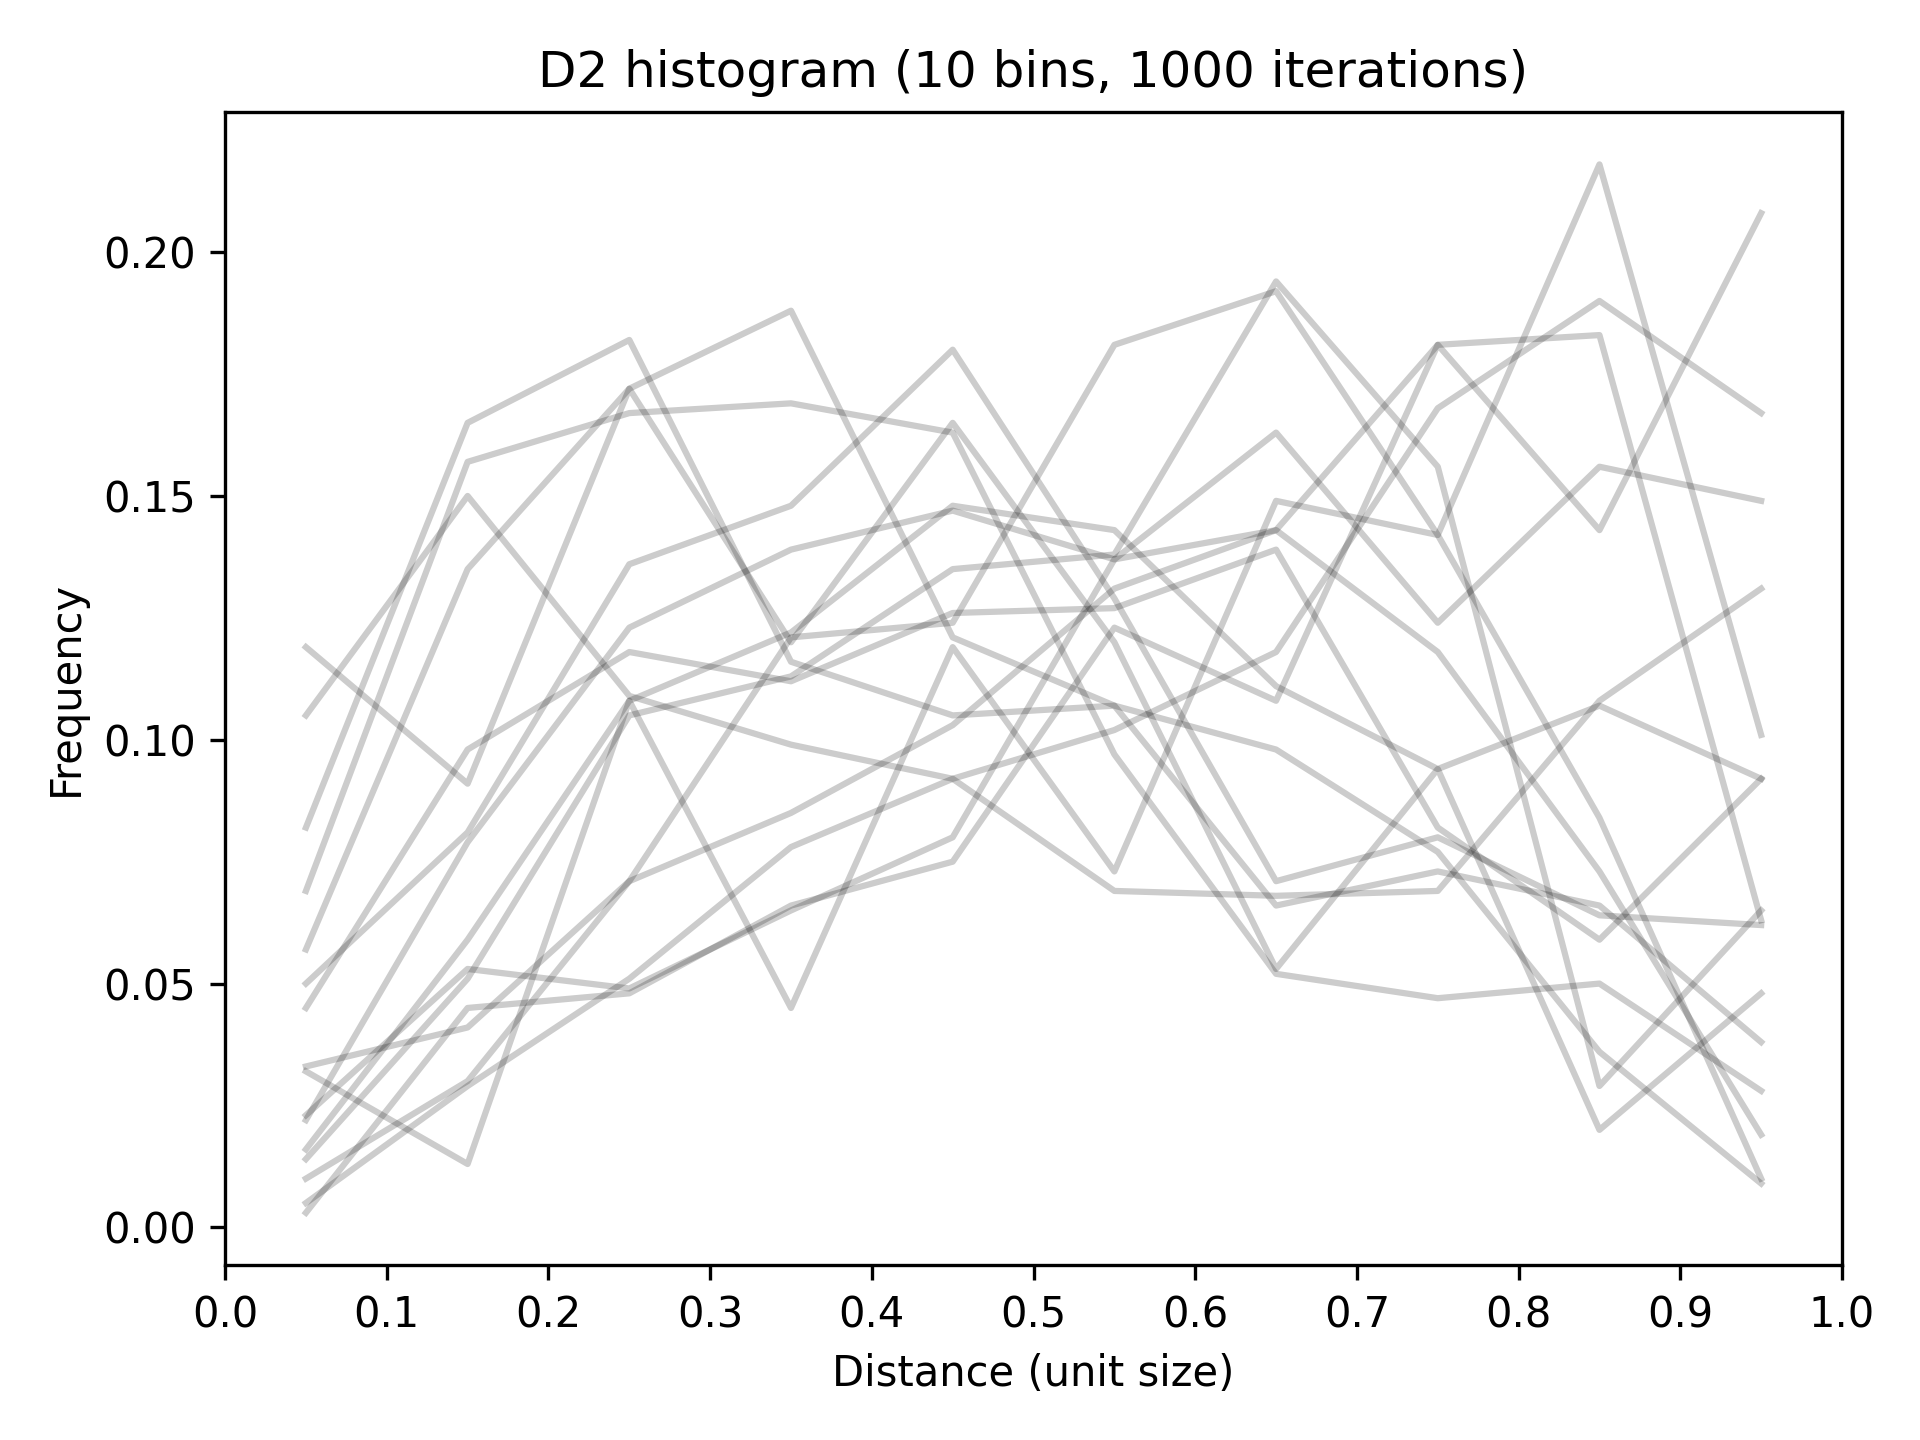
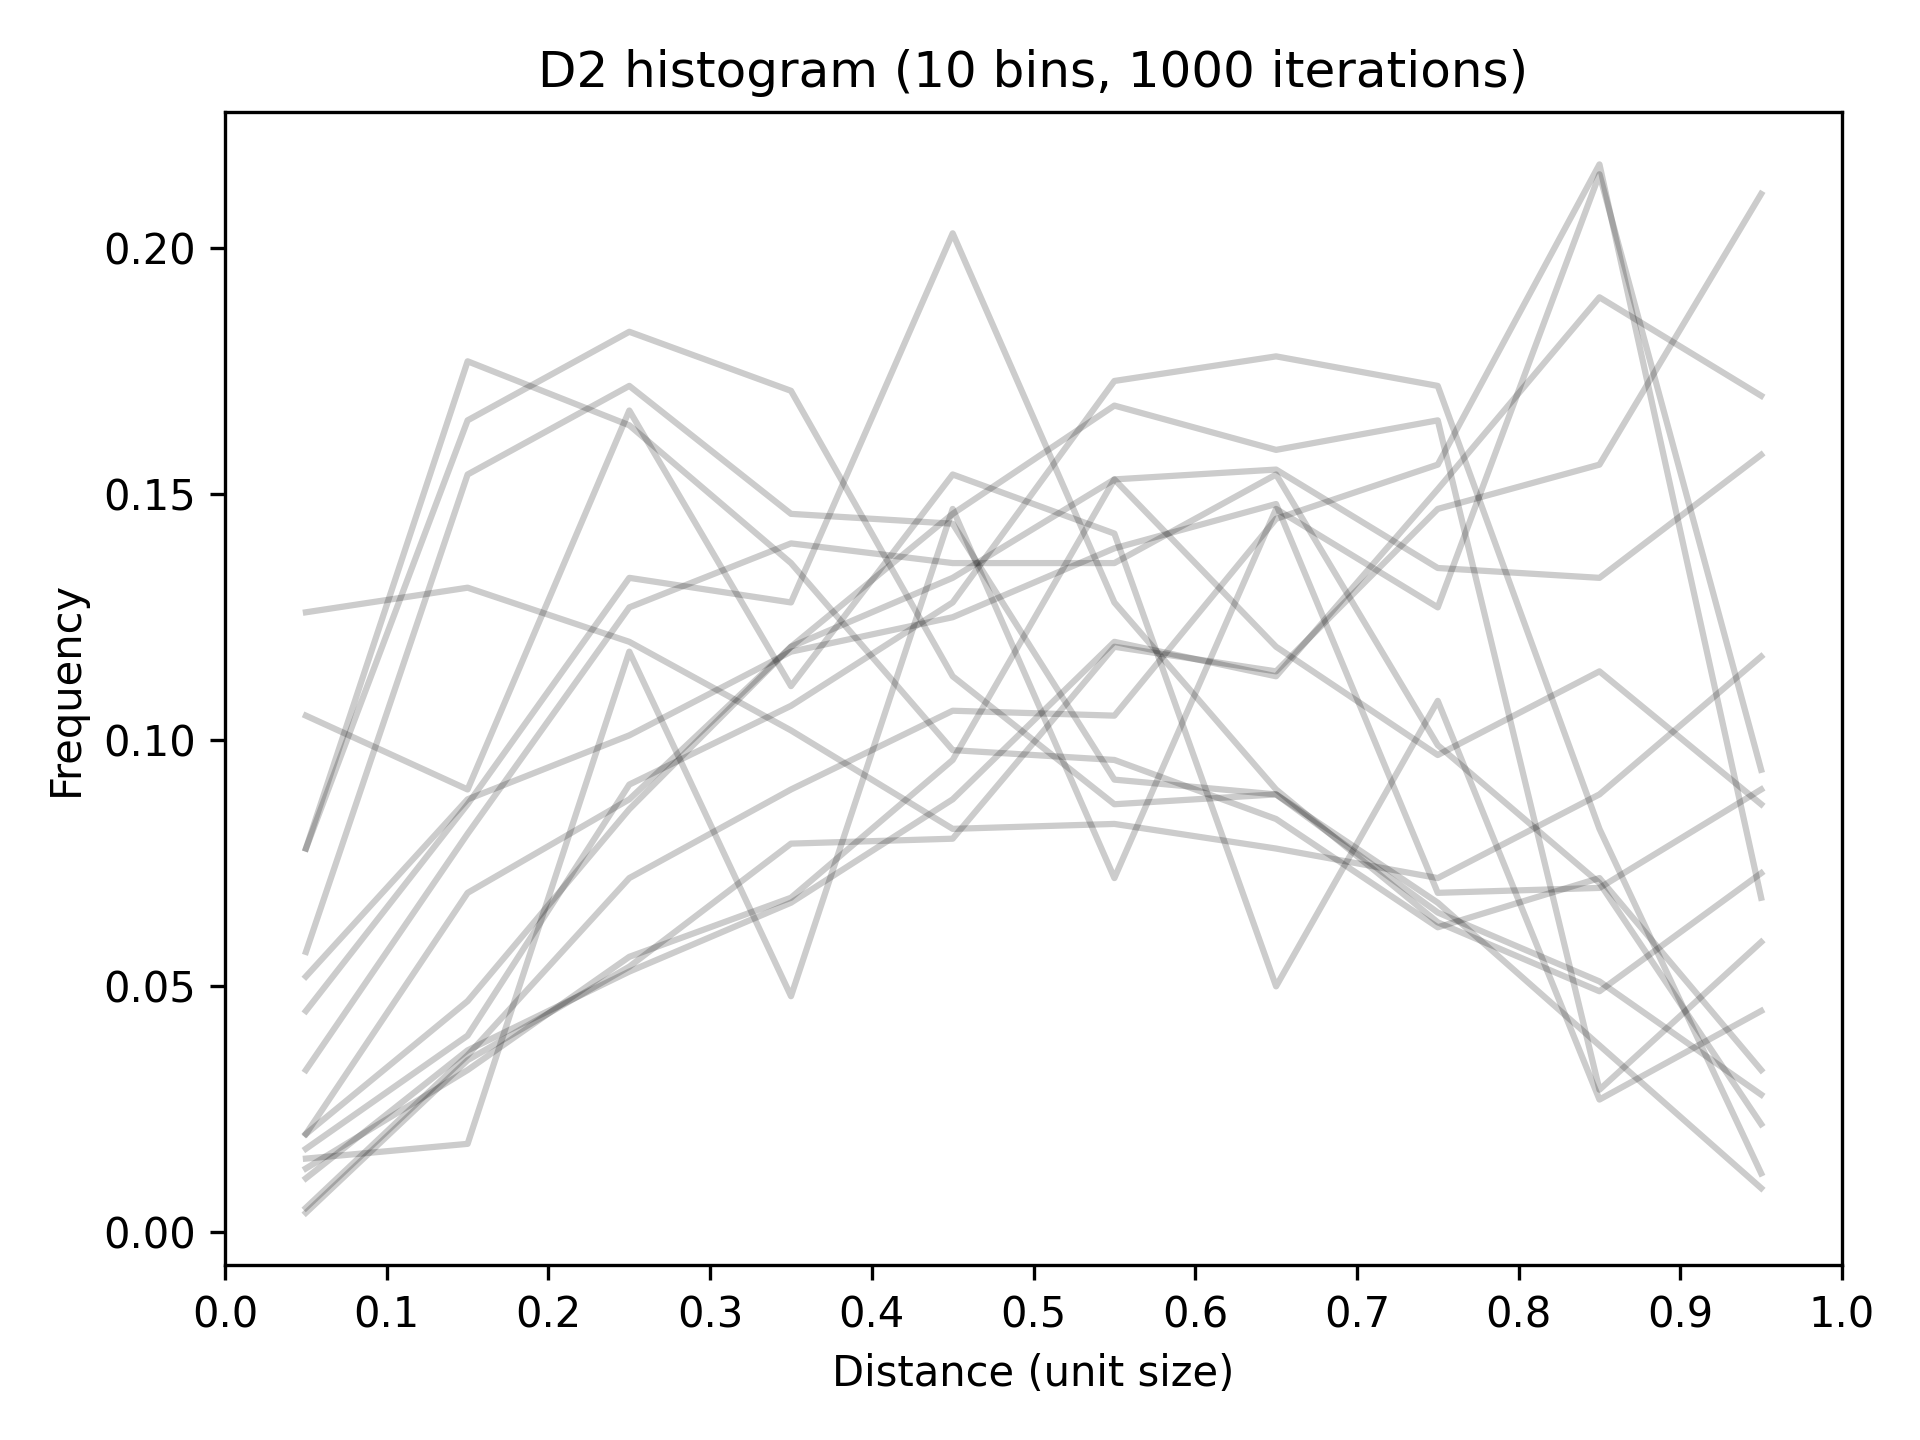
Added alternative to D2

diff --git a/code/feature_extraction.py b/code/feature_extraction.py
@@ -1,3 +1,4 @@
+import itertools
 import os
 
 import numpy as np
@@ -50,17 +51,30 @@ def compute_d1_hist(vertices: np.ndarray, barycenter: np.ndarray, n_iter: int = 
     return hist
 
 
-def compute_d2_hist(vertices: np.ndarray, n_iter: int = 1_000, n_bins: int = 10) -> list:
+def compute_d2_hist(vertices: np.ndarray, n_iter: int = 1_000, n_bins: int = 10, guarantee_unique_pairs: bool = False) -> list:
     # D2: distance between 2 random vertices
 
-    distances = []
-    for _ in range(n_iter):
-        # Get 2 random vertices, replace=False means v1 and v2 are not the same
-        # However, this does not guarantee that the next pair of vertices is not the same
-        v1, v2 = vertices[np.random.choice(vertices.shape[0], 2, replace=False)]
+    if guarantee_unique_pairs:
+        # Get the indices of all possible pairs of vertices
+        indices = np.array(list(itertools.combinations(range(vertices.shape[0]), 2)))
 
-        distance = np.linalg.norm(v1 - v2)  # Compute distance between them
-        distances.append(distance)
+        # Use replace=False to avoid duplicates, only when n_iter < indices.shape[0]
+        # Since not all meshes have enough unique vertices, we need to check this
+        if n_iter < indices.shape[0]:
+            indices = indices[np.random.choice(indices.shape[0], n_iter, replace=False)]
+
+        # Compute distance between each pair of vertices
+        distances = np.linalg.norm(vertices[indices[:, 0]] - vertices[indices[:, 1]], axis=1)
+
+    else:
+        distances = []
+        for _ in range(n_iter):
+            # Get 2 random vertices, replace=False means v1 and v2 are not the same
+            # However, this does not guarantee that the next pair of vertices is not the same
+            v1, v2 = vertices[np.random.choice(vertices.shape[0], 2, replace=False)]
+
+            distance = np.linalg.norm(v1 - v2)  # Compute distance between them
+            distances.append(distance)
 
     hist, _ = np.histogram(distances, bins=n_bins, range=(0, 1))  # Create histogram
     hist = hist / np.sum(hist)  # Normalize histogram

diff --git a/code/feature_extraction_visualisation.py b/code/feature_extraction_visualisation.py
@@ -35,9 +35,9 @@ if __name__ == "__main__":
     d3 = data[:, 3 * n_bins:4 * n_bins]
     d4 = data[:, 4 * n_bins:]
 
-    # plot_feat_hist(a3, "A3", "Angle (degrees)", range(0, 181, 18), n_bins=n_bins, n_iter=n_iter)
+    plot_feat_hist(a3, "A3", "Angle (degrees)", range(0, 181, 18), n_bins=n_bins, n_iter=n_iter)
     # Round to 1 decimal place for floating point errors like 0.300004
-    # plot_feat_hist(d1, "D1", "Distance (unit size)", np.arange(0, 1.1, 0.1).round(1), n_bins=n_bins, n_iter=n_iter)
-    # plot_feat_hist(d2, "D2", "Distance (unit size)", np.arange(0, 1.1, 0.1).round(1), n_bins=n_bins, n_iter=n_iter)
+    plot_feat_hist(d1, "D1", "Distance (unit size)", np.arange(0, 1.1, 0.1).round(1), n_bins=n_bins, n_iter=n_iter)
+    plot_feat_hist(d2, "D2", "Distance (unit size)", np.arange(0, 1.1, 0.1).round(1), n_bins=n_bins, n_iter=n_iter)
     plot_feat_hist(d3, "D3", "Square root distance (unit size)", np.arange(0, 1.1, 0.1).round(1), n_bins=n_bins, n_iter=n_iter)
     plot_feat_hist(d4, "D4", "Cube root distance (unit size)", np.arange(0, 1.1, 0.1).round(1), n_bins=n_bins, n_iter=n_iter)
